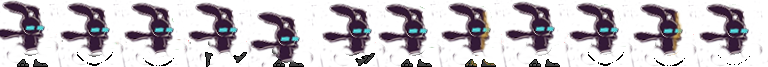
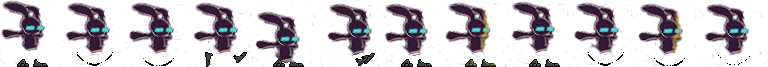
adding verduras

diff --git a/juego/main.py b/juego/main.py
@@ -4,13 +4,61 @@ import sys
 sys.path.insert(0, "..")
 import pilas
 
+from pilas.actores import Actor
+
+# Objectos
+
+
+class Ojota(Actor):
+    def __init__(self,x=0,y=0,rotacion=0,velocidad_maxima=6,
+                 angulo_de_movimiento=90):
+
+        """
+        Construye la Ojota.
+
+        :param x: Posición x del proyectil.
+        :param y: Posición y del proyectil.
+        :param rotacion: Angulo de rotación del Actor.
+        :param velocidad_maxima: Velocidad máxima que alcanzará el proyectil.
+        :param angulo_de_movimiento: Angulo en que se moverá el Actor..
+
+        """
+        imagen = pilas.imagenes.cargar('chancleta.png')
+        Actor.__init__(self, imagen)
+        self.x = x
+        self.y = y
+        self.rotacion = rotacion
+        self.escala = 2
+        self.radio_de_colision = 20
+
+        self.hacer(pilas.comportamientos.Proyectil(velocidad_maxima=velocidad_maxima,
+                                                   aceleracion=1,
+                                                   angulo_de_movimiento=angulo_de_movimiento,
+                                                   gravedad=0))
+
+    def actualizar(self):
+        self.rotacion += 13
+
+
+
 # Personajes
 
 
 class Conejo(pilas.actores.Martian):
     def __init__(self, *args, **kwags):
         pilas.actores.Martian.__init__(self, *args, **kwags)
-        self.imagen = pilas.imagenes.cargar_grilla("conejothon.png", 1)
+        self.imagen = pilas.imagenes.cargar_grilla("conejothon.png", 12)
+        self.definir_cuadro(0)
+        self.mapa = mapa
+        self.municion = Ojota
+        self.aprender(pilas.habilidades.Disparar,
+                      municion=Ojota,
+                      angulo_salida_disparo=-90,
+                      frecuencia_de_disparo=8,
+                      offset_disparo=(25,0),
+                      offset_origen_actor=(25,23))
+        self.velocidad = 8
+
 
 
 # Mapa
@@ -18,15 +66,6 @@ class Conejo(pilas.actores.Martian):
 
 def crear_mapa(filas=15, columnas=20):
     mapa = pilas.actores.Mapa(filas=filas, columnas=columnas)
-
-    # Plataforma superior (la que esta en medio de la pantalla)
-    # mapa.pintar_bloque(4, 6, 0)
-    # mapa.pintar_bloque(5, 7, 1)
-    # mapa.pintar_bloque(6, 8, 1)
-    # mapa.pintar_bloque(7, 9, 1)
-    # mapa.pintar_bloque(8, 10, 1)
-    # mapa.pintar_bloque(9, 11, 1)
-    # mapa.pintar_bloque(10, 12, 2)
 
     # Plataforma pequeña, mas abajo que la anterior.
     mapa.pintar_bloque(12, 12, 0)
@@ -42,15 +81,12 @@ def crear_mapa(filas=15, columnas=20):
     # bloque derecha
     mapa.pintar_bloque(9, 18, 2)
 
-    mapa.pintar_bloque(13, 0, 7, True)
-    mapa.pintar_bloque(12, 0, 7, True)
-    mapa.pintar_bloque(11, 0, 7, True)
-    mapa.pintar_bloque(10, 0, 7, True)
-
-    mapa.pintar_bloque(13, 19, 7, True)
-    mapa.pintar_bloque(12, 19, 7, True)
-    mapa.pintar_bloque(11, 19, 7, True)
-    mapa.pintar_bloque(10, 19, 7, True)
+    # topes
+    for tope in range(15):
+        # izq
+        mapa.pintar_bloque(tope, 0, 7, True)
+        # der
+        mapa.pintar_bloque(tope, 19, 7, True)
 
     # Pinta todo el suelo
     for columna in range(0, 15):
@@ -62,15 +98,26 @@ def crear_mapa(filas=15, columnas=20):
 
     return mapa
 
-pilas.iniciar()
+def llevar(conejo, banana):
+    banana.aprender(pilas.habilidades.Imitar, conejo)
 
-pilas.fondos.DesplazamientoHorizontal()
+pilas.iniciar(usar_motor='qtgl')
+
+fondo = pilas.fondos.DesplazamientoHorizontal()
+
+fondo.agregar("selva.jpg")
 
 mapa = crear_mapa()
-martian = Conejo(mapa)
-martian.aprender(pilas.habilidades.SiempreEnElCentro)
+conejo = Conejo(mapa)
+conejo.aprender(pilas.habilidades.SiempreEnElCentro)
+
+banana1 = pilas.actores.Banana(x=-200, y=100)
+
+bananas = [banana1]
+
+pilas.escena_actual().colisiones.agregar(conejo, bananas, llevar)
 
 pilas.avisar("Usa los direccionales para controlar al personaje.")
-pilas.ejecutar()
+# pilas.avisar("Usa espacio para tirar una ojota.")
 
 pilas.ejecutar()
